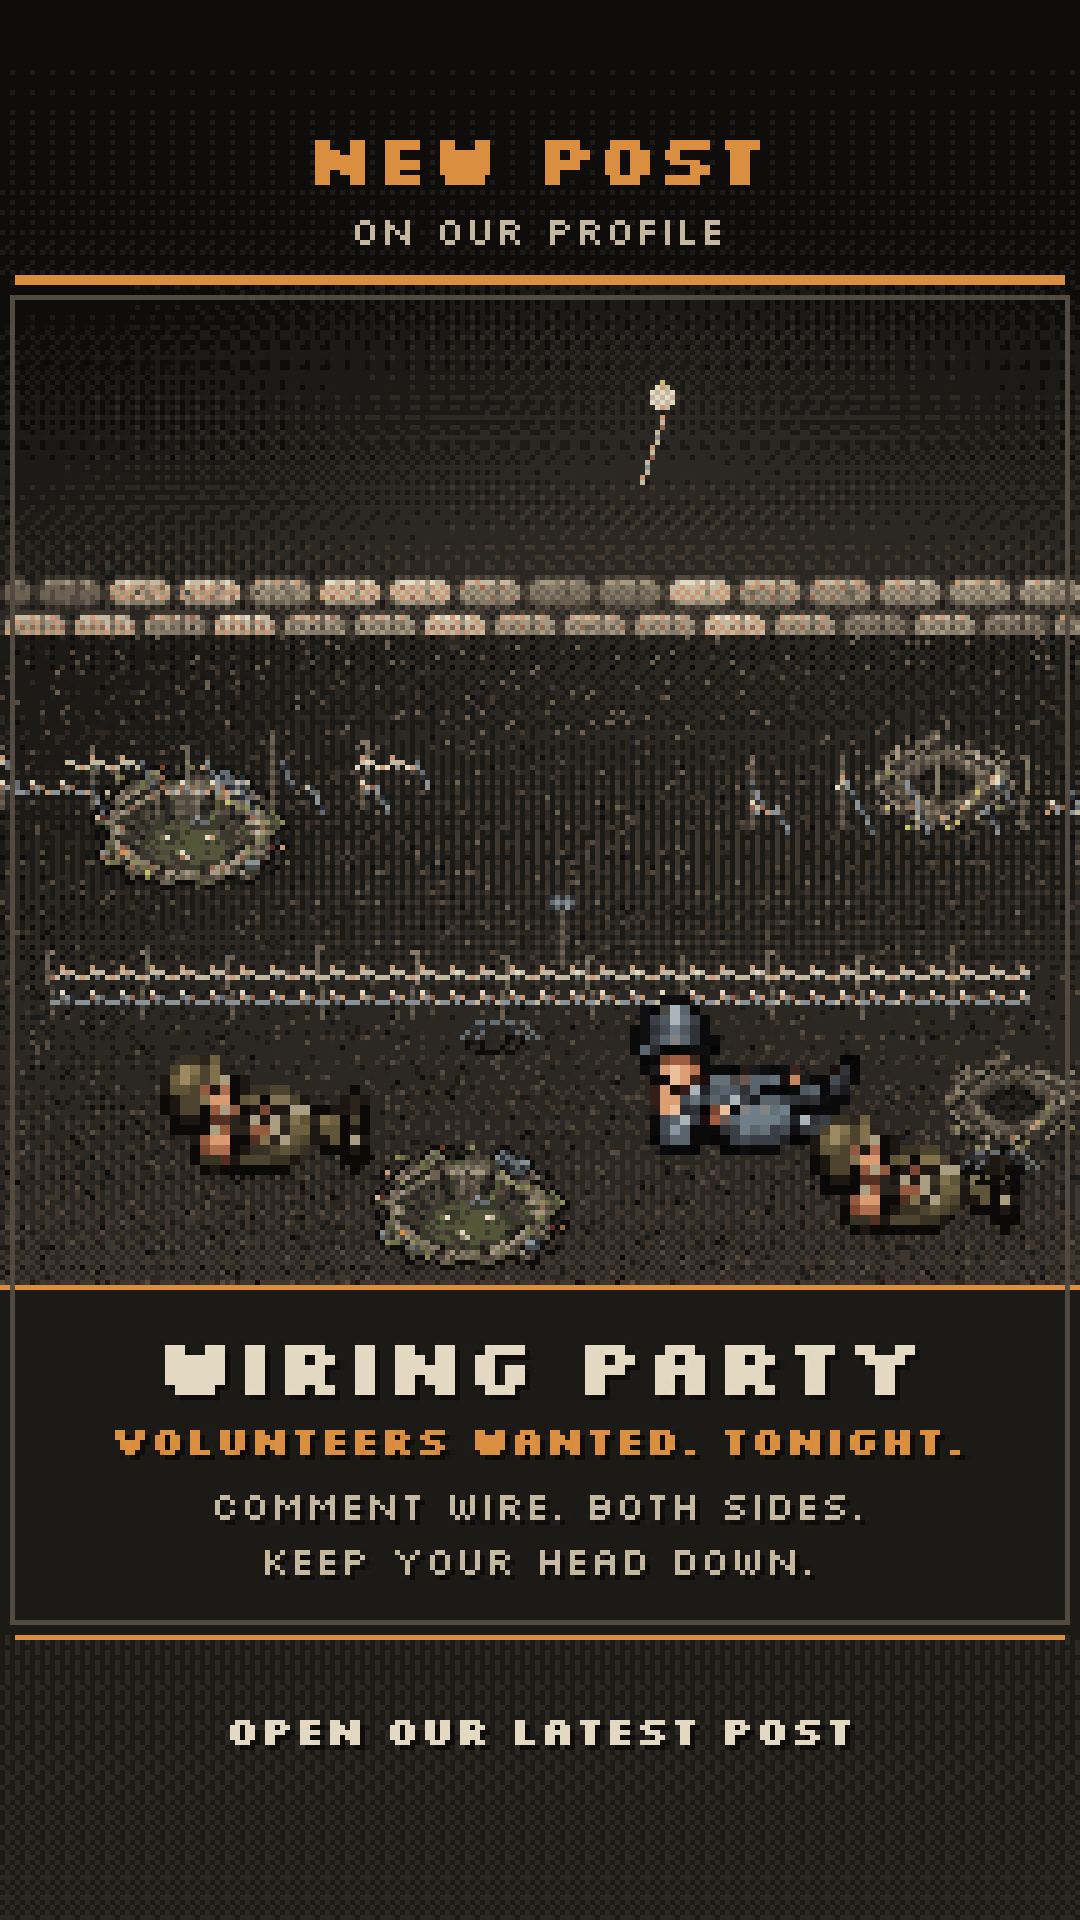
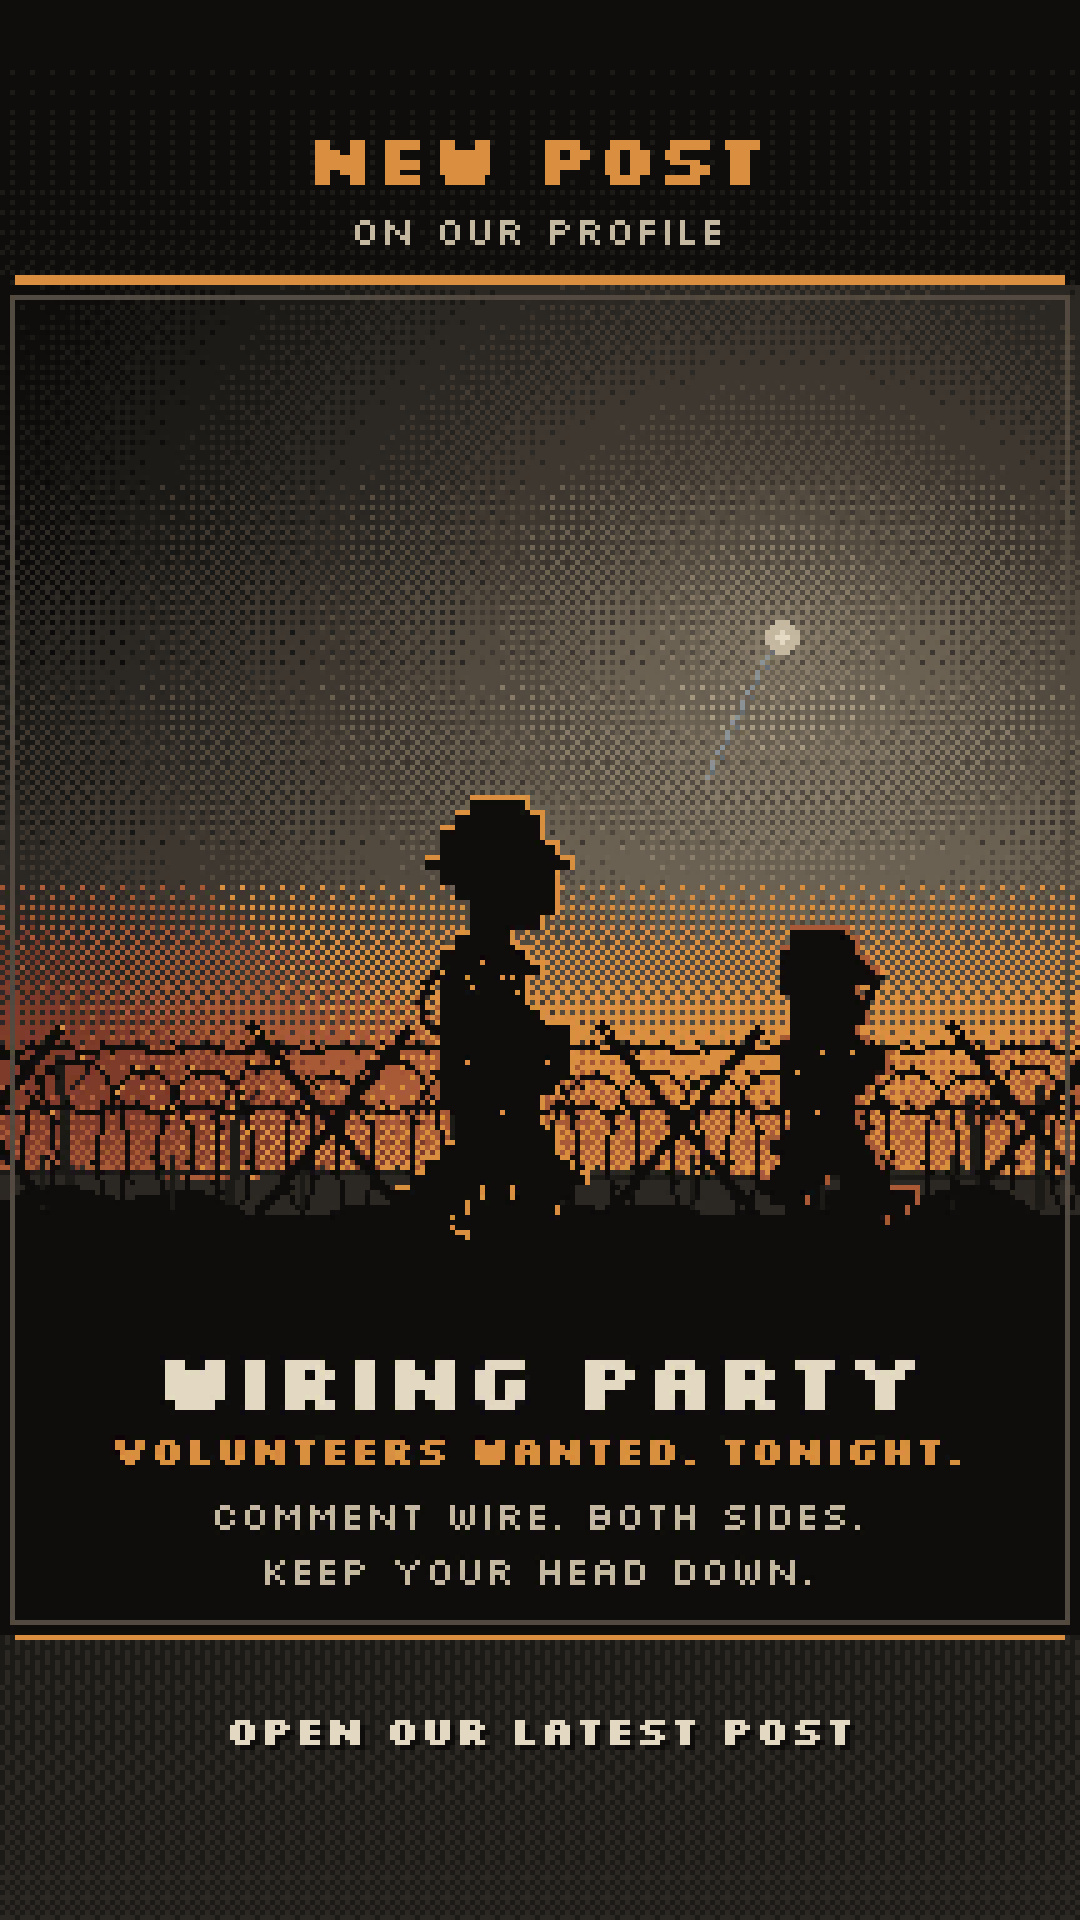
Wiring party post: filmový obrázek (silueta proti světlici, ostnatý drát na kozách)
Claude-Session: https://claude.ai/code/session_01VWWMSwJGFZow7tBNcmKaEZ

diff --git a/marketing/make_wiring.py b/marketing/make_wiring.py
@@ -1,105 +1,120 @@
-"""Náborový post „Wiring party“ (1080×1350): noc v zemi nikoho, světlice nad drátem, dobrovolníci leží u kůlů a natahují nový drát.
-Sprity ze hry (ležící voják = poslední snímek pádu), krátery ze hry, drát kreslí day_art.barbed. Bez čísel.
+"""Náborový post „Wiring party“ (1080×1350), filmový: světlice nad zemí nikoho, proti světlu silueta vojáka se svitkem drátu
+a v popředí velký ostnatý drát na kozách. Siluety ze spritů hry (vyplněné tmavou barvou, okraj nasvícený světlicí). Bez čísel.
 Použití: python marketing/make_wiring.py → marketing/promo/wiring_1.jpg
 """
-import os, random, sys
+import math, os, random, sys
 from PIL import Image, ImageDraw
 sys.path.insert(0, os.path.dirname(os.path.abspath(__file__)))
-from make_posts import P, W, H, K, canvas, font, text_c, sprite, up, frame, footer  # noqa: E402
-from day_art import grad, light, shade, noise, barbed, sandbag_wall  # noqa: E402
+from make_posts import P, W, H, K, canvas, font, text_c, sprite, up, frame  # noqa: E402
+from day_art import grad, light, bayer  # noqa: E402
 
 ROOT = os.path.dirname(os.path.dirname(os.path.abspath(__file__)))
 PROMO = os.path.join(ROOT, "marketing", "promo")
-PROPS = os.path.join(ROOT, "web", "public", "assets", "props")
-ART = 200
+GROUND = 196          # horizont / zem
+FX, FY = 156, 70      # světlice
 
 
-def prop(name, k=1):
-    im = Image.open(os.path.join(PROPS, name)).convert("RGBA")
-    return up(im, k) if k > 1 else im
+def silhouette(name, k, col, rim=None, rim_dx=1):
+    """sprite → silueta (plná barva), volitelně světlý okraj na straně ke světlu"""
+    s = up(sprite(name), k)
+    a = s.split()[3]
+    out = Image.new("RGBA", s.size, (0, 0, 0, 0))
+    px, ap = out.load(), a.load()
+    for y in range(s.height):
+        for x in range(s.width):
+            if ap[x, y] > 128:
+                px[x, y] = col + (255,)
+    if rim:
+        for y in range(s.height):
+            for x in range(s.width):
+                if ap[x, y] > 128:
+                    nx = x + rim_dx
+                    if not (0 <= nx < s.width) or ap[nx, y] <= 128 or (y > 0 and ap[x, y - 1] <= 128):
+                        px[x, y] = rim + (255,)
+    return out
 
 
-def coil(d, cx, cy, r=6):
-    """svitek nového drátu"""
-    import math
-    for a in range(0, 720, 15):
-        t = math.radians(a)
-        x, y = cx + int(math.cos(t) * r + a / 720 * 6), cy + int(math.sin(t) * r * 0.6)
-        d.point((x, y), fill=P["steel"] if math.sin(t) < 0 else P["ink"])
+def trestle(d, x, y, h, col, rim):
+    """koza z kůlů (X) pro drát"""
+    d.line((x - h // 2, y, x + h // 3, y - h), fill=col, width=2)
+    d.line((x + h // 2, y, x - h // 3, y - h), fill=col, width=2)
+    d.point((x + h // 3, y - h), fill=rim)
+    d.point((x - h // 3 + 1, y - h + 1), fill=rim)
 
 
-def fence(d, x0, x1, y, broken=False, seed=0):
-    """plot z drátu: kůly a dva prameny s ostny, nasvícené světlicí; broken = roztrhaný (mezery, visící konce)"""
+def concertina(d, x0, x1, cy, r, col, rim, seed):
+    """svitek ostnatého drátu: řada překrývajících se smyček s ostny, okraj ke světlu nasvícený"""
     rnd = random.Random(seed)
-    for x in range(x0, x1, 18):
-        h = 12 + rnd.randrange(3)
-        d.line((x, y, x + rnd.randrange(-1, 2), y - h), fill=P["mud3"])
-        d.point((x, y - h), fill=P["sand"])
-    for k, yy in enumerate((y - 9, y - 4)):
-        x = x0
-        while x < x1:
-            if broken and rnd.random() < 0.18:
-                d.line((x, yy, x + 2, yy + 5), fill=P["steel"])  # visící konec
-                x += 10 + rnd.randrange(8)
-                continue
-            d.point((x, yy + (1 if (x // 3) % 2 else 0)), fill=P["pale"] if k == 0 else P["grey"])
-            if x % 6 == 0:
-                d.point((x, yy - 1), fill=P["white"])
-                d.point((x + 1, yy + 1), fill=P["steel"])
-            x += 1
+    x = x0
+    while x < x1:
+        rr = r + rnd.randrange(-2, 3)
+        pts = []
+        for a in range(0, 360, 6):
+            t = math.radians(a)
+            pts.append((x + math.cos(t) * rr * 0.55, cy + math.sin(t) * rr))
+        for i in range(len(pts)):
+            (ax, ay), (bx, by) = pts[i], pts[(i + 1) % len(pts)]
+            d.line((ax, ay, bx, by), fill=col)
+        for a in range(0, 360, 40):  # ostny
+            t = math.radians(a + rnd.randrange(20))
+            px_, py_ = x + math.cos(t) * rr * 0.55, cy + math.sin(t) * rr
+            d.line((px_ - 1, py_ - 1, px_ + 1, py_ + 1), fill=col)
+            if math.sin(t) < -0.2 and math.cos(t) > -0.3:
+                d.point((int(px_), int(py_) - 1), fill=rim)
+        x += int(rr * 0.75)
 
 
 def make():
     im = canvas()
+    # obloha: noc nahoře, dole kouř nasvícený světlicí
+    grad(im, (0, 0, W, GROUND), [P["ink"], P["ink"], P["dark"], P["mud0"], P["rust"], P["fire"]])
+    light(im, FX, FY, 170, strength=1.6, steps=3)
     d = ImageDraw.Draw(im)
-    rnd = random.Random(4)
-    # obloha: noc, nízko kouř
-    grad(im, (0, 0, W, 70), [P["ink"], P["dark"], P["mud0"]])
-    # nepřátelský zákop na obzoru: pytle a kůly
-    sandbag_wall(im, (0, 58, W, 72), seed=11)
+    # světlice: jasné jádro, kouřová stopa
+    for i in range(26):
+        d.point((FX - 3 - i // 2 + (i % 3 == 0), FY + 3 + i), fill=P["grey"] if i % 3 else P["steel"])
+    d.ellipse((FX - 3, FY - 3, FX + 3, FY + 3), fill=P["pale"])
+    d.ellipse((FX - 1, FY - 1, FX + 1, FY + 1), fill=P["white"])
+    # vzdálený obzor: rozstřílené stromy a nepřátelský val, dva plány
+    rnd = random.Random(8)
+    for x in range(0, W):
+        h = 4 + int(2 * math.sin(x / 9)) + (rnd.random() < 0.1)
+        d.line((x, GROUND - 14 - h, x, GROUND - 10), fill=P["mud0"])
+    for tx in (14, 46, 92, 196, 208):
+        hh = 18 + rnd.randrange(16)
+        d.line((tx, GROUND - 12, tx + rnd.randrange(-2, 3), GROUND - 12 - hh), fill=P["dark"], width=2)
+        d.line((tx, GROUND - 12 - hh + 6, tx + 5, GROUND - 12 - hh), fill=P["dark"])
+    d.rectangle((0, GROUND - 10, W, H), fill=P["ink"])
+    for x in range(0, W):  # nerovná zem
+        d.line((x, GROUND - 10 - int(3 + 3 * math.sin(x / 13) + 2 * math.sin(x / 5)), x, GROUND - 10), fill=P["ink"])
+    # kůly a drát v dálce
+    for x in range(8, W, 26):
+        d.line((x, GROUND - 12, x, GROUND - 22), fill=P["dark"])
+    d.line((0, GROUND - 19, W, GROUND - 18), fill=P["dark"])
+    # silueta: voják nese svitek drátu (chodí doprava, ke světlu); druhý leží a drží kůl
+    man = silhouette("concord@walk_east_2.png", 3, P["ink"], rim=P["gold"], rim_dx=1)
+    im.alpha_composite(man, (52, GROUND - 10 - 30 * 3))
+    far = silhouette("hegemony@walk_east_4.png", 2, P["ink"], rim=P["fire"], rim_dx=1)
+    im.alpha_composite(far, (134, GROUND - 12 - 30 * 2))
     d = ImageDraw.Draw(im)
-    grad(im, (0, 70, W, ART), [P["dark"], P["mud0"], P["mud1"]])
-    noise(im, (0, 70, W, ART), [P["mud0"], P["mud2"], P["dark"]], 0.12, 3)
-    d = ImageDraw.Draw(im)
-    # krátery
-    for name, x, y in (("crater_m.png", 14, 92), ("crater_s.png", 172, 86), ("crater_m.png", 70, 168), ("crater_s.png", 186, 150)):
-        c = prop(name)
-        im.alpha_composite(c, (x, y))
-    d = ImageDraw.Draw(im)
-    # starý roztrhaný drát vzadu a nový drát vpředu (kůly)
-    fence(d, 0, 84, 104, broken=True, seed=2)
-    fence(d, 150, W, 108, broken=True, seed=5)
-    fence(d, 10, 206, 146, seed=7)
-    # dobrovolníci: leží u kůlů (sprity ze hry ×2), jeden se svitkem
-    for name, x, y in (("concord@fall_south_6.png", 18, 128), ("hegemony@fall_south_6.png", 112, 124), ("concord@fall_south_6.png", 148, 140)):
-        try:
-            im.alpha_composite(up(sprite(name), 2), (x, y))
-        except FileNotFoundError:
-            pass
-    d = ImageDraw.Draw(im)
-    coil(d, 96, 150)
-    coil(d, 196, 176)
-    # kladivo a kůl v ruce u prostředního
-    d.line((112, 136, 112, 124), fill=P["mud3"])
-    d.rectangle((110, 122, 114, 124), fill=P["steel"])
-    # světlice: jasný bod se stopou kouře, světlo shora
-    fx, fy = 132, 22
-    for i in range(14):
-        d.point((fx - i // 3, fy + 4 + i), fill=P["grey"] if i % 2 else P["steel"])
-    light(im, fx, fy, 190, strength=0.8, steps=2)
-    d = ImageDraw.Draw(im)
-    d.ellipse((fx - 2, fy - 2, fx + 2, fy + 2), fill=P["white"])
-    d.point((fx, fy - 3), fill=P["yellow"])
-    shade(im, (0, 0, W, ART), strength=0.6, reverse=True)
-    shade(im, (0, 0, W, ART), strength=0.4)
-    # text
-    d = ImageDraw.Draw(im)
-    d.rectangle((0, ART, W, H), fill=P["dark"])
-    d.line((0, ART, W, ART), fill=P["gold"])
-    text_c(d, W // 2, ART + 5, "WIRING PARTY", font(16, True), P["white"])
-    text_c(d, W // 2, ART + 25, "VOLUNTEERS WANTED. TONIGHT.", font(8, True), P["gold"])
-    text_c(d, W // 2, ART + 38, "COMMENT WIRE. BOTH SIDES.", font(8), P["pale"])
-    text_c(d, W // 2, ART + 49, "KEEP YOUR HEAD DOWN.", font(8), P["pale"])
+    concertina(d, 88, 104, GROUND - 52, 7, P["ink"], P["gold"], 3)  # svitek v ruce
+    d.line((166, GROUND - 40, 176, GROUND - 58), fill=P["ink"], width=2)  # kůl na rameni druhého
+    d.point((176, GROUND - 59), fill=P["gold"])
+    # popředí: velký ostnatý drát na kozách přes celou šířku
+    for x in (-4, 66, 136, 206):
+        trestle(d, x, GROUND + 2, 50, P["ink"], P["gold"])
+    concertina(d, -14, W + 16, GROUND - 22, 18, P["ink"], P["gold"], 11)
+    for yy in (GROUND - 44, GROUND - 32):  # napnuté prameny mezi kozami
+        for x in range(0, W):
+            d.point((x, yy + (1 if (x // 5) % 3 == 0 else 0)), fill=P["ink"])
+            if x % 7 == 0:
+                d.line((x - 1, yy - 1, x + 1, yy + 1), fill=P["ink"])
+    d.line((0, GROUND - 10, W, GROUND - 8), fill=P["ink"])
+    # spodní text na zemi
+    text_c(d, W // 2, 208, "WIRING PARTY", font(16, True), P["white"])
+    text_c(d, W // 2, 227, "VOLUNTEERS WANTED. TONIGHT.", font(8, True), P["gold"])
+    text_c(d, W // 2, 240, "COMMENT WIRE. BOTH SIDES.", font(8), P["pale"])
+    text_c(d, W // 2, 251, "KEEP YOUR HEAD DOWN.", font(8), P["pale"])
     frame(im)
     out = os.path.join(PROMO, "wiring_1.jpg")
     up(im, K).convert("RGB").save(out, quality=95, subsampling=0)
